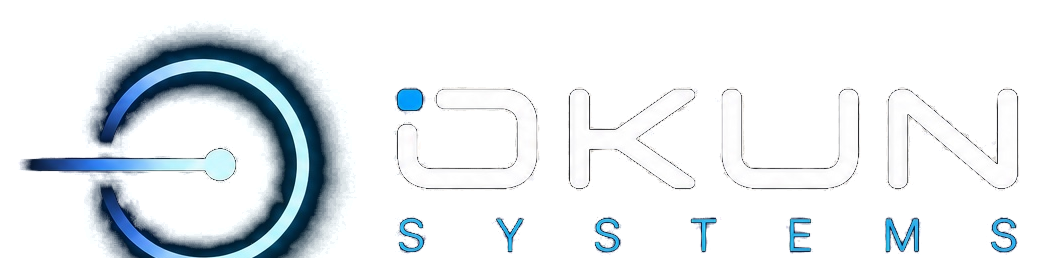
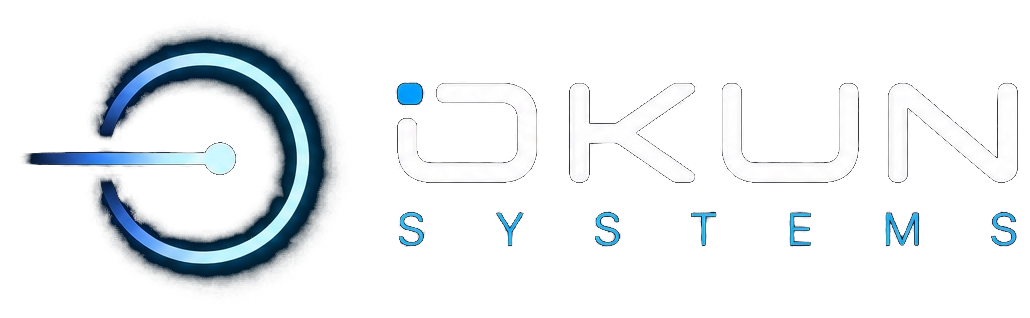
Startseite: Kopfbild sichtbar, Bildmarke nach Vorlage, Schlagwoerter raus
Vier Punkte aus der Durchsicht:

Das Kopffoto war links praktisch schwarz. Der gemeinsame Verlauf ueber
allen vier Kopfbildern deckt mit 0,95 ab, weil die helle Glasfassade und
das Mittagslicht am Potsdamer Platz das brauchen -- ueber den Nachtbergen
frisst er das Bild. Dafuer gibt es jetzt HERO_OVERLAY_SOFT, das nur die
Startseite nutzt; die anderen drei Koepfe bleiben unveraendert. Gemessen
liegt der Kontrast dort weiter zwischen 5,7 und 9,2 zu 1.

Die Bildmarke im Kopfbereich war nachempfunden, nicht nachgebaut: Luecke
an der falschen Stelle, Punkt zu gross, Balken zu kurz. Sie ist jetzt aus
public/okun-icon.png ausgemessen -- Mittelpunkt, Radius 218, Strichstaerke
23, Luecke 138 bis 212 Grad, Punkt mit Radius 26,5 -- und traegt die dort
abgegriffenen Farbwerte. Dazu laeuft ein Lichtpunkt auf dem Ring um, oben
nach rechts; wer Bewegung abbestellt hat, bekommt die ruhige Marke.

Die Wortmarke in Kopf- und Fusszeile schnitt den Ring unten ab. Ein
einzelner Ausschnitt kann das nicht loesen, weil der Ring tiefer reicht
als die Trennlinie ueber dem Claim. Die Datei setzt Bildmarke und
Schriftzug deshalb getrennt wieder zusammen, an ihren urspruenglichen
Stellen -- Abstand und Groessenverhaeltnis bleiben wie in der Vorlage.

Die Schlagwortliste neben dem Ring ist entfernt.

Claude-Session: https://claude.ai/code/session_016N2Snsd9jwGEug4Kt18t2u

diff --git a/src/components/marketing/okun-ring.tsx b/src/components/marketing/okun-ring.tsx
@@ -1,52 +1,111 @@
 /**
- * Der leuchtende Ring aus dem Logo, als Bildmotiv.
+ * Die Bildmarke aus dem Logo, als SVG nachgebaut.
  *
- * Bewusst als SVG und nicht als Bilddatei: Er bleibt bei jeder Größe scharf,
- * lädt ohne zweite Anfrage und trägt die Markenfarbe, statt sie zu treffen.
+ * Alle Maße stammen aus `public/okun-icon.png` und wurden dort ausgemessen:
+ * Mittelpunkt (642|611,5), Radius 218, Strichstärke 23, die Lücke von 138°
+ * bis 212°, der Punkt bei (658,5|611,5) mit Radius 26,5, der Balken auf
+ * derselben Höhe ab x = 320. Das Koordinatensystem ist deshalb bewusst das
+ * der Vorlage — so bleibt jede Zahl hier nachprüfbar.
+ *
+ * Als SVG und nicht als Bilddatei, weil die Vorlage einen schwarzen Grund
+ * trägt, der über dem Kopffoto als Kasten stünde. Außerdem bleibt sie in
+ * jeder Größe scharf und trägt die Markenfarbe, statt sie zu treffen.
  */
-export function OkunRing({ className = "" }: { className?: string }) {
+export function OkunRing({
+  className = "",
+  animated = true,
+}: {
+  className?: string;
+  /** Der Lichtpunkt, der auf dem Ring umläuft. */
+  animated?: boolean;
+}) {
   return (
     <svg
-      viewBox="0 0 320 320"
+      viewBox="290 350 610 525"
       className={className}
       fill="none"
       aria-hidden
       focusable="false"
     >
       <defs>
-        <linearGradient id="okun-ring-stroke" x1="0" y1="1" x2="1" y2="0">
-          <stop offset="0%" stopColor="#0b4a8f" />
-          <stop offset="45%" stopColor="#1d8ee0" />
-          <stop offset="100%" stopColor="#bfe6ff" />
+        {/* Von links tiefblau nach rechts hell — wie in der Vorlage. */}
+        <linearGradient
+          id="okun-ring-stroke"
+          gradientUnits="userSpaceOnUse"
+          x1="412"
+          y1="0"
+          x2="872"
+          y2="0"
+        >
+          <stop offset="0%" stopColor="#1c79ff" />
+          <stop offset="18%" stopColor="#3c97ff" />
+          <stop offset="40%" stopColor="#a5e4fd" />
+          <stop offset="62%" stopColor="#bcf7fe" />
+          <stop offset="100%" stopColor="#c9fcfe" />
         </linearGradient>
-        <linearGradient id="okun-ring-bar" x1="0" y1="0" x2="1" y2="0">
-          <stop offset="0%" stopColor="#0d3f77" stopOpacity="0" />
-          <stop offset="60%" stopColor="#2a93e6" />
-          <stop offset="100%" stopColor="#dff2ff" />
+
+        {/* Der Balken läuft links aus, statt hart abzubrechen. */}
+        <linearGradient
+          id="okun-ring-bar"
+          gradientUnits="userSpaceOnUse"
+          x1="300"
+          y1="0"
+          x2="660"
+          y2="0"
+        >
+          <stop offset="0%" stopColor="#1c79ff" stopOpacity="0" />
+          <stop offset="12%" stopColor="#2483ff" />
+          <stop offset="45%" stopColor="#4ea4fe" />
+          <stop offset="65%" stopColor="#a8e7fd" />
+          <stop offset="100%" stopColor="#c4fafe" />
         </linearGradient>
-        <filter id="okun-ring-glow" x="-50%" y="-50%" width="200%" height="200%">
-          <feGaussianBlur stdDeviation="10" result="blur" />
+
+        <filter id="okun-ring-glow" x="-30%" y="-30%" width="160%" height="160%">
+          <feGaussianBlur stdDeviation="7" result="blur" />
           <feMerge>
             <feMergeNode in="blur" />
             <feMergeNode in="SourceGraphic" />
           </feMerge>
         </filter>
+
+        <filter id="okun-ring-spark" x="-40%" y="-40%" width="180%" height="180%">
+          <feGaussianBlur stdDeviation="9" />
+        </filter>
       </defs>
 
       <g filter="url(#okun-ring-glow)">
-        {/* Der Ring ist oben offen — wie im Logo. */}
+        {/* Der Ring ist links offen, dort wo der Balken hineinläuft. */}
         <path
-          d="M 160 28 A 132 132 0 1 1 159 28"
+          d="M 457.13 495.98 A 218 218 0 1 1 479.99 757.37"
           stroke="url(#okun-ring-stroke)"
-          strokeWidth="13"
+          strokeWidth="23"
           strokeLinecap="round"
-          pathLength={100}
-          strokeDasharray="94 6"
-          transform="rotate(166 160 160)"
         />
-        <rect x="18" y="153" width="146" height="13" rx="6.5" fill="url(#okun-ring-bar)" />
-        <circle cx="168" cy="159.5" r="17" fill="#eaf7ff" />
+        <path
+          d="M 320 611.5 H 658.5"
+          stroke="url(#okun-ring-bar)"
+          strokeWidth="23"
+        />
+        <circle cx="658.5" cy="611.5" r="26.5" fill="#c9fcfe" />
       </g>
+
+      {/*
+       * Der Lichtpunkt läuft auf derselben Bahn wie der Ring, oben also nach
+       * rechts. `pathLength` normiert die Bahn auf 100 Einheiten, damit der
+       * Strich im Stylesheet ohne die echte Bogenlänge auskommt.
+       */}
+      {animated && (
+        <path
+          className="okun-ring-lauf"
+          d="M 457.13 495.98 A 218 218 0 1 1 479.99 757.37"
+          stroke="#eafdff"
+          strokeWidth="23"
+          strokeLinecap="round"
+          filter="url(#okun-ring-spark)"
+          pathLength={100}
+          strokeDasharray="7 93"
+        />
+      )}
     </svg>
   );
 }

diff --git a/src/app/(marketing)/page.tsx b/src/app/(marketing)/page.tsx
@@ -4,7 +4,7 @@ import {
   Card,
   Container,
   Eyebrow,
-  HERO_OVERLAY,
+  HERO_OVERLAY_SOFT,
   Headline,
   KeywordList,
   PrimaryButton,
@@ -21,7 +21,7 @@ export default function HomePage() {
       {/* ── Kopfbereich ──────────────────────────────────────────────────── */}
       <Backdrop
         src="/marketing/hero-berge.jpg"
-        overlay={HERO_OVERLAY}
+        overlay={HERO_OVERLAY_SOFT}
       >
         <Container className="relative py-16 sm:py-20 lg:py-24">
           <div className="grid gap-10 lg:grid-cols-[minmax(0,1fr)_minmax(0,0.85fr)] lg:items-center">
@@ -67,11 +67,8 @@ export default function HomePage() {
               </div>
             </div>
 
-            <div className="relative flex items-center justify-center lg:justify-end">
+            <div className="flex items-center justify-center lg:justify-end">
               <OkunRing className="w-[260px] sm:w-[340px] lg:w-[400px]" />
-              <div className="absolute right-0 top-4 hidden lg:block">
-                <KeywordList items={["Effizienter", "Intelligenter", "Nachhaltiger"]} />
-              </div>
             </div>
           </div>
         </Container>

diff --git a/src/components/marketing/marketing-logo.tsx b/src/components/marketing/marketing-logo.tsx
@@ -4,17 +4,20 @@ import Image from "next/image";
  * Die Wortmarke für Kopf- und Fußzeile der Website.
  *
  * Bewusst eine eigene Datei statt eines Beschnitts per CSS: Die Logodatei des
- * Portals trägt unter der Marke noch Trennstrich und Claim, und wer sie über
- * die Höhe abschneidet, erwischt je nach Breite genau die Linie. Hier liegt
- * die Marke für sich, und die Höhe ergibt sich aus der Breite.
+ * Portals trägt unter der Marke noch Trennstrich und Claim. Ein einzelner
+ * Ausschnitt bekommt beides nicht weg, ohne die Bildmarke anzuschneiden — der
+ * Ring reicht tiefer als die Trennlinie. Diese Datei setzt deshalb Bildmarke
+ * und Schriftzug getrennt wieder zusammen, an ihren ursprünglichen Stellen;
+ * erzeugt wird sie aus `public/okun-logo.png`. Die Höhe ergibt sich aus der
+ * Breite.
  */
 export function MarketingLogo({ width = 140 }: { width?: number }) {
   return (
     <Image
       src="/marketing/okun-wortmarke.png"
       alt="OKUN Systems"
-      width={1039}
-      height={258}
+      width={1030}
+      height={318}
       priority
       style={{ width, height: "auto", display: "block" }}
     />

diff --git a/src/components/marketing/pieces.tsx b/src/components/marketing/pieces.tsx
@@ -194,6 +194,20 @@ export const HERO_OVERLAY =
   "linear-gradient(90deg,rgba(6,10,17,0.95) 0%,rgba(6,10,17,0.88) 34%,rgba(6,10,17,0.55) 68%,rgba(6,10,17,0.4) 100%)," +
   "linear-gradient(180deg,rgba(6,10,17,0.45) 0%,rgba(6,10,17,0.3) 50%,rgba(6,10,17,0.96) 100%)";
 
+/**
+ * Derselbe Verlauf, aber viel zurückhaltender — für dunkle Kopffotos.
+ *
+ * Wie viel Deckung die Schrift braucht, hängt am Foto. Über der hellen
+ * Glasfassade und dem Mittagslicht am Potsdamer Platz braucht sie die volle
+ * Stärke, über den Nachtbergen nicht: dort war die linke Seite unter
+ * `HERO_OVERLAY` praktisch schwarz, und vom Bild blieb nur der rechte Rand
+ * übrig. Ein gemeinsamer Wert für alle vier Köpfe hieße also: entweder dort
+ * verschwindet die Schrift oder hier das Foto.
+ */
+export const HERO_OVERLAY_SOFT =
+  "linear-gradient(90deg,rgba(6,10,17,0.6) 0%,rgba(6,10,17,0.5) 30%,rgba(6,10,17,0.26) 62%,rgba(6,10,17,0.12) 100%)," +
+  "linear-gradient(180deg,rgba(6,10,17,0.3) 0%,rgba(6,10,17,0.18) 45%,rgba(6,10,17,0.94) 100%)";
+
 /** Der Seitenrahmen — überall dieselbe Breite. */
 export function Container({
   children,

diff --git a/src/app/globals.css b/src/app/globals.css
@@ -69,3 +69,27 @@ body {
 .animate-pulse-accent {
   animation: pulse-accent 2s ease-in-out infinite;
 }
+
+/*
+ * Der Lichtpunkt auf der Bildmarke.
+ *
+ * `stroke-dashoffset` von 100 auf 0 schiebt den kurzen Strich in Richtung
+ * der Bahn, und die Bahn verläuft im Uhrzeigersinn — oben wandert das Licht
+ * also nach rechts. Die Bahn ist über `pathLength` auf 100 normiert.
+ */
+@keyframes okun-ring-lauf {
+  from { stroke-dashoffset: 100; }
+  to   { stroke-dashoffset: 0; }
+}
+
+.okun-ring-lauf {
+  animation: okun-ring-lauf 6s linear infinite;
+}
+
+/* Wer Bewegung abbestellt hat, bekommt die ruhige Marke. */
+@media (prefers-reduced-motion: reduce) {
+  .okun-ring-lauf {
+    animation: none;
+    opacity: 0;
+  }
+}
